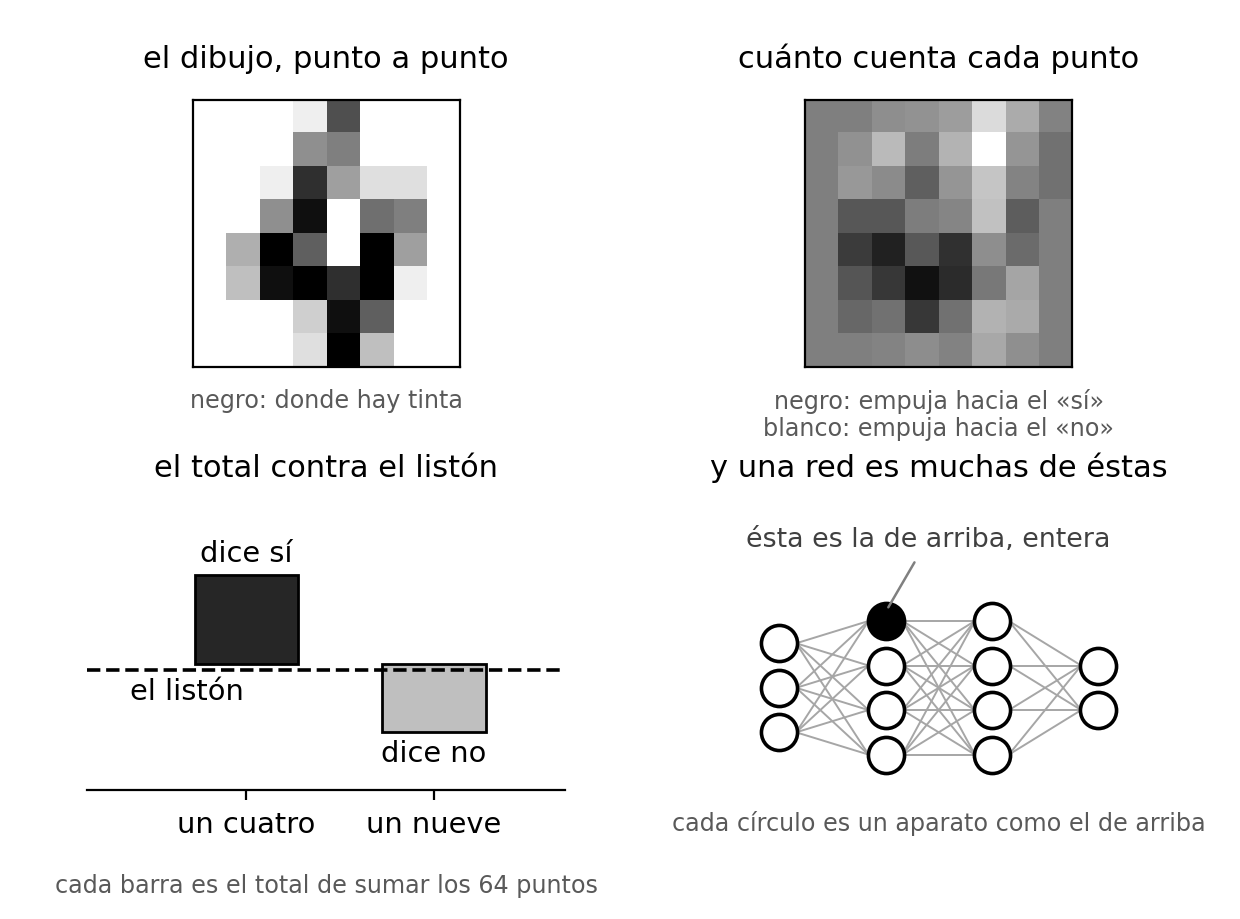
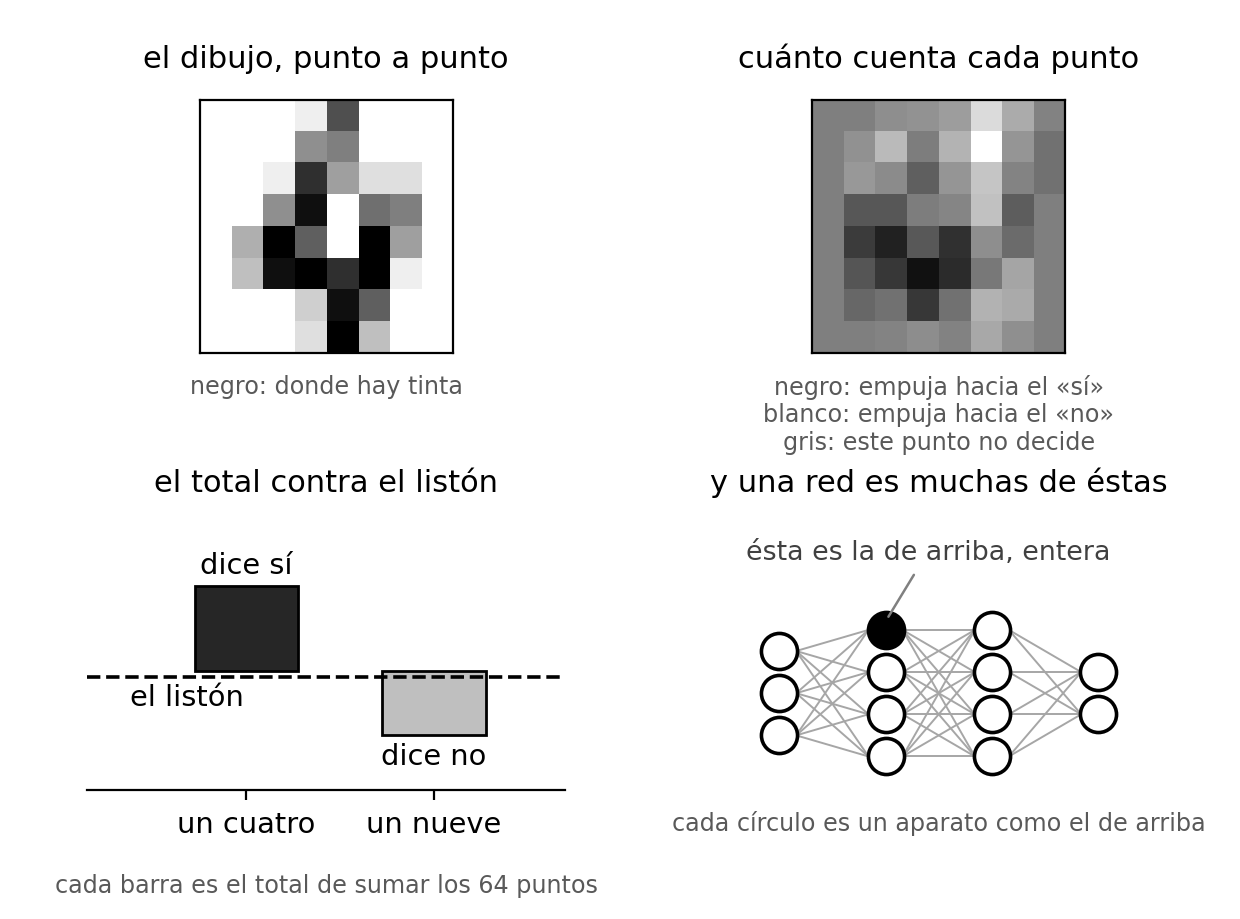
la tanda de las mecánicas: rótulos, un número que nadie podía reproducir, y cuatro figuras
retropropagacion.py — las «siete billonésimas» del capítulo 4 no las avalaba ningún fichero, y
al aislar la comprobación resultó que no las avalaba nada: vivía dentro de --selftest
compartiendo el generador de azar con las dos pruebas anteriores, así que la red que usaba
dependía de cuántas tiradas se hubieran gastado más arriba. Tocar cualquier otra prueba cambiaba
el número impreso. Ahora tiene semilla propia, sale también en la medición —para que el libro
tenga un fichero al lado— y da 2,92e-12 dos veces seguidas. El libro dice ya «tres billonésimas»
y cuenta en dos líneas por qué decía otra cosa.

Y su salida no declaraba máquina ninguna llevando dentro una tabla de tiempos. Ahora la declara.

maquina_entera.py — seguía llamando «rondas» a las 336 y «palabras» a los trozos, que es la
reforma del capítulo 7 aplicada a medias (4.24). Salida regenerada: el diff son esas cuatro
líneas y nada más.

siete_segmentos.py — sus dos bloques salían sin rótulos de columna. Ahora los llevan, medidos.

Cuatro figuras: el gris sin clave en una_neurona y una_capa; apilar dibujaba «el de abajo»
arriba; y la curva del capítulo 10 no enseñaba la caída que el texto afirma, que ahora se ve en
un recuadro ampliado. Las cuatro miradas en la página antes de darlas por buenas.

Numeración de capítulo vieja en cuatro docstrings (crecer, crudo_o_adiestrado, comprimir,
romper_la_maquina).

Los tres _capNN.txt huérfanos, a datos/salidas/_antiguos/: avalaban texto que ya no produce
[…]

diff --git a/codigo/en_que_orden_aprende.py b/codigo/en_que_orden_aprende.py
@@ -55,6 +55,14 @@ MINIMO_PUNTOS_CURVA = 100         # menos que esto y el CSV no es una medición 
 TITULO_FIGURA = "LO MAL QUE LO HACE, SEGÚN AVANZA EL ENTRENAMIENTO"
 ETIQUETA_CRUDA = "la medición cruda, paso a paso"
 ETIQUETA_SUAVE = "la misma, suavizada, para que se vea la forma"
+# El recuadro ampliado. Sin él, el dibujo grande —con el eje anclado en cero, que es lo
+# correcto para que se vea que la línea no llega al suelo— convierte el último 80 % de la
+# curva en una raya horizontal a ojo, y el capítulo pide justo ahí una predicción sobre si
+# la bajada sigue. El recuadro enseña ese tramo con el eje vertical SIN anclar en cero, y
+# lo dice en su propia línea para que nadie lea la ampliación como si fuera el dibujo.
+PASO_RECUADRO = 10_000            # desde qué paso se amplía el tramo final
+ETIQUETA_RECUADRO = "el tramo final de cerca:\ndel paso {} al {}"
+NOTA_RECUADRO = "aquí el cero no está en el dibujo, para que se vea que baja"
 MODELO_GRANDE = 500_000_000_000   # orden de magnitud de un modelo grande de hoy
 
 # ==========================================================
@@ -255,6 +263,29 @@ def leer_curva(ruta=SALIDA_CURVA):
     return datos
 
 
+def tramo_final(curva, desde=PASO_RECUADRO):
+    """Los puntos del tramo que amplía el recuadro: del paso `desde` al último, ni uno más."""
+    tramo = [c for c in curva if c[0] >= desde]
+    assert len(tramo) >= 2, \
+        f"Se esperaban al menos dos puntos desde el paso {desde}; se encontraron {len(tramo)}"
+    assert tramo[-1] == curva[-1], "Se esperaba que el tramo llegara hasta el último punto"
+    return tramo
+
+
+def bajada_del_tramo(curva, desde=PASO_RECUADRO):
+    """Cuánto baja el tramo del recuadro, del primer décimo al último, en tanto por uno.
+
+    Es la cifra que el recuadro enseña dibujada. Se mide sobre el CSV y no sobre el
+    dibujo: si lo que se ve en el recuadro fuera un efecto de estirar el eje y no una
+    bajada de verdad, esto daría cero."""
+    tramo = tramo_final(curva, desde)
+    n = max(1, len(tramo) // 10)
+    primero = sum(v for _, v in tramo[:n]) / n
+    ultimo = sum(v for _, v in tramo[-n:]) / n
+    assert primero > 0, "Se esperaba un primer décimo positivo"
+    return (primero - ultimo) / primero
+
+
 def figura(curva):
     """Lo mal que lo hace, paso a paso.
 
@@ -297,7 +328,44 @@ def figura(curva):
     ax.spines[["top", "right"]].set_visible(False)
     ax.xaxis.set_major_formatter(
         plt.FuncFormatter(lambda x, _: f"{int(x):,}".replace(",", ".")))
-    ax.legend(loc="upper right", frameon=False, fontsize=8.8, handlelength=2.4)
+    # La clave baja a la esquina de abajo a la izquierda porque el recuadro ocupa la de
+    # arriba a la derecha; las dos palabras son las mismas.
+    ax.legend(loc="lower left", frameon=False, fontsize=8.2, handlelength=2.2)
+
+    # ---- el recuadro ampliado del tramo final ----
+    tramo = tramo_final(curva)
+    t2 = [c[0] for c in tramo]
+    v2 = [c[1] for c in tramo]
+    caja = ax.inset_axes([0.545, 0.57, 0.435, 0.26])
+    caja.plot(t2, v2, linewidth=0.6, color="0.72", zorder=1)
+    caja.plot(t2, suavizar(v2), linewidth=1.4, color="#222222", zorder=2)
+    caja.set_xlim(t2[0], t2[-1])
+    # Sin números en ninguno de los dos ejes: el vertical porque el dibujo grande tampoco
+    # los lleva, y el horizontal porque el rótulo del recuadro ya dice de qué paso a qué
+    # paso va, y una cifra suelta ahí abajo se pisaba con la línea del dibujo grande.
+    caja.set_yticks([])
+    caja.set_xticks([])
+    for lado in caja.spines.values():
+        lado.set_linewidth(0.6)
+        lado.set_color("0.45")
+    caja.set_title(ETIQUETA_RECUADRO.format(miles(t2[0]), miles(t2[-1])),
+                   fontsize=7.4, pad=3.0, linespacing=1.25)
+    caja.text(0.5, -0.09, NOTA_RECUADRO, transform=caja.transAxes, ha="center", va="top",
+              fontsize=6.8, color="0.35")
+    # Invariantes del recuadro: los puntos son exactamente los del tramo, el cero NO entra
+    # en su eje vertical (que es para lo que está), y no se sale del dibujo grande.
+    y0, _ = caja.get_ylim()
+    assert y0 > 0, f"Se esperaba que el cero quedara fuera del recuadro; el eje empieza en {y0}"
+    assert tramo == [c for c in curva if c[0] >= PASO_RECUADRO], \
+        "Se esperaba que el recuadro llevara exactamente los puntos desde el paso del corte"
+    assert ax.get_xlim()[0] <= t2[0] and t2[-1] <= ax.get_xlim()[1], \
+        "Se esperaba que el tramo del recuadro cupiera dentro del eje del dibujo grande"
+    bajada = bajada_del_tramo(curva)
+    assert bajada > 0, \
+        ("Se esperaba que el tramo del recuadro bajara; medido sobre el CSV baja "
+         f"{bajada:.4f}. Con una curva plana esto da cero y el recuadro no se dibuja: "
+         "lo que enseña tiene que ser el dato, no el estirón del eje.")
+
     fig.tight_layout()
     fig.savefig(SALIDA_FIGURA, dpi=200)
     plt.close(fig)

diff --git a/codigo/retropropagacion.py b/codigo/retropropagacion.py
@@ -28,6 +28,7 @@ ANCHO = 16
 
 PESOS_MODELO_GRANDE = 100_000_000_000         # 100.000 millones, orden de un modelo de hoy
 TOL_GRADIENTE = 1e-6                          # tolerancia de la comprobación de gradiente
+SEMILLA_GRADIENTE = 20260404                  # semilla propia: ver diferencia_entre_los_dos_metodos()
 
 SALIDA_CSV = "retropropagacion.csv"
 
@@ -191,11 +192,7 @@ def selftest():
 
     # 3. INVARIANTE DEL DOMINIO — la retropropagación tiene que dar EXACTAMENTE el mismo
     #    gradiente que la fuerza bruta. Si no, todo el capítulo es falso.
-    red = Red([4, 5, 1])
-    X = rng.normal(size=(16, 4)); y = (rng.random(16) > 0.5).astype(float)
-    gW_r, _ = red.gradiente_retro(X, y)
-    gW_b = red.gradiente_fuerza_bruta(X, y)
-    dif = max(float(np.abs(a - b).max()) for a, b in zip(gW_r, gW_b))
+    dif = diferencia_entre_los_dos_metodos()
     print(f"[3] invariante        diferencia máxima entre los dos métodos: {cientifica(dif)} (tolerancia {TOL_GRADIENTE:.0e})")
     if dif > TOL_GRADIENTE:
         fallos.append(f"invariante: los dos gradientes difieren en {cientifica(dif)}, por encima de {TOL_GRADIENTE:.0e}")
@@ -207,6 +204,28 @@ def selftest():
         return 1
     print("SELFTEST: las tres pruebas pasan.")
     return 0
+
+
+def diferencia_entre_los_dos_metodos(semilla=SEMILLA_GRADIENTE):
+    """La mayor diferencia entre la culpa calculada por los dos métodos, en una misma red.
+
+    Tiene semilla propia, y por una razón que costó un número impreso. Esta comprobación vivía
+    dentro de `--selftest`, compartiendo el generador de azar con las dos pruebas de antes, así
+    que la red y los datos que se usaban aquí dependían de cuántas tiradas se hubieran gastado
+    más arriba. Cambiar cualquier otra prueba cambiaba este número, y el libro llevaba impreso
+    uno —«siete billonésimas»— que nadie podía volver a obtener. Fallo 4.5 con un agravante:
+    no es que no hubiera fichero detrás, es que no había NADA detrás, ni siquiera el mismo
+    cálculo dos veces.
+
+    Ahora se calcula aquí, con su propia semilla, y sale en la medición además de en el
+    selftest, para que el número del libro tenga un fichero al lado."""
+    rng = np.random.default_rng(semilla)
+    red = Red([4, 5, 1], semilla=semilla)
+    X = rng.normal(size=(16, 4))
+    y = (rng.random(16) > 0.5).astype(float)
+    gW_r, _ = red.gradiente_retro(X, y)
+    gW_b = red.gradiente_fuerza_bruta(X, y)
+    return max(float(np.abs(a - b).max()) for a, b in zip(gW_r, gW_b))
 
 
 def main():
@@ -236,7 +255,14 @@ def main():
     # Lo que sí se sostiene es el recuento de pasadas, que no depende de la máquina.
     print(f"\nEl factor medido crece con cada peso añadido, de {filas[0]['factor']:.0f} a "
           f"{filas[-1]['factor']:.0f} veces.")
-    print("Lo que no depende de la máquina es el recuento de pasadas por los datos que hace")
+    # El número que el capítulo usa para decir «no es una aproximación: es el mismo número».
+    # Va aquí, en la medición, para que tenga fichero detrás (ver la función, y el fallo 4.5).
+    dif = diferencia_entre_los_dos_metodos()
+    print(f"\nmayor diferencia entre la culpa calculada por los dos métodos, en la misma")
+    print(f"red y con los mismos datos: {cientifica(dif)}")
+    print("(es ruido de redondeo del ordenador: los dos métodos dan el mismo número)")
+
+    print("\nLo que no depende de la máquina es el recuento de pasadas por los datos que hace")
     print("falta para dar UN paso de aprendizaje:")
     print(f"  fuerza bruta:        2 pasadas por peso  -> {miles(2*PESOS_MODELO_GRANDE)} pasadas")
     print(f"  retropropagación:    1 adelante y 1 atrás -> 2 pasadas, sea cual sea el número de pesos")

diff --git a/codigo/siete_segmentos.py b/codigo/siete_segmentos.py
@@ -11,7 +11,9 @@ fijas— y la intuición FALLA: ahí una sola raya sí separa los pares de los i
 Ese fallo es el contenido del apartado. En un reloj hay siete piezas siempre en el mismo
 sitio, y con eso casi cualquier división de los diez dígitos se resuelve con una raya.
 Escritos a mano no hay piezas: hay tinta en sitios distintos cada vez, y ahí una sola raya
-se queda en el 90 %. La dificultad no viene de «par»: viene de la escritura a mano.
+se queda en el 90 %. La dificultad no viene de «par», y tampoco viene solo de la escritura
+a mano: el capítulo anterior reconoce dígitos manuscritos sueltos sin problema. Viene de las
+dos cosas juntas: cinco formas distintas, y a mano.
 
 Uso:
     python siete_segmentos.py
@@ -130,6 +132,8 @@ def un_solo_segmento_basta(X):
 
 ANCHO_NOMBRE = 24
 COL = 4
+# La columna de puntos del comité: 24 + 19 = 43, que es donde acaba «puntos que suma».
+ANCHO_PUNTOS = 19
 
 
 def bloque_tabla(X):
@@ -148,19 +152,21 @@ def bloque_tabla(X):
 
 def bloque_comite(X, w, b):
     lineas = ["EL COMITÉ QUE SÍ LO CONSIGUE, CON LOS SIETE SEGMENTOS", ""]
+    lineas.append(f"{'el segmento':<{ANCHO_NOMBRE}}{'puntos que suma':>{ANCHO_PUNTOS}}")
+    lineas.append(f"{'-' * 23:<{ANCHO_NOMBRE}}{'-' * 15:>{ANCHO_PUNTOS}}")
     for nombre, peso in zip(SEGMENTOS, w):
-        lineas.append(f"{nombre:<{ANCHO_NOMBRE}}{peso:>+6.0f}")
-    lineas.append(f"{'':<{ANCHO_NOMBRE}}{'-' * 6:>6}")
+        lineas.append(f"{nombre:<{ANCHO_NOMBRE}}{peso:>+{ANCHO_PUNTOS}.0f}")
+    lineas.append(f"{'':<{ANCHO_NOMBRE}}{'-' * 6:>{ANCHO_PUNTOS}}")
     # El listón puede salir cero, y «-0» no lo escribe nadie.
     liston = -b
     texto = f"{liston:+.0f}" if abs(liston) > 0.5 else "0"
     lineas.append(f"para decir «par», el total tiene que pasar de {texto}")
     lineas.append("")
-    lineas.append(f"{'dígito':<10}{'total':>8}{'dice':>8}")
+    lineas.append(f"{'dígito':<10}{'total':>8}{'dice':>8}      ¿acierta?")
     for d in range(10):
         total = X[d] @ w + b
         lineas.append(f"{d:<10}{total:>+8.0f}{('par' if total > 0 else 'impar'):>8}"
-                      f"   {'correcto' if (total > 0) == (d % 2 == 0) else 'MAL'}")
+                      f"      {'correcto' if (total > 0) == (d % 2 == 0) else 'MAL'}")
     return comprobar_ancho(lineas)
 
 

diff --git a/codigo/maquina_entera.py b/codigo/maquina_entera.py
@@ -5,8 +5,9 @@ Capítulo 7 — la máquina entera: seguir una frase de punta a punta.
 Enseña, sobre un modelo real y pequeño, los cuatro momentos del recorrido:
   1. El texto se parte en trozos.
   2. Cada trozo se convierte en una lista de números.
-  3. Los números atraviesan muchas rondas de mirar y mezclar.
-  4. Sale una lista de probabilidades sobre TODAS las palabras posibles, se elige una,
+  3. Los números atraviesan una ronda de mirar y mezclar detrás de otra, y dentro de
+     cada ronda la mirada se hace varias veces a la vez.
+  4. Sale una lista de probabilidades sobre TODOS los trozos posibles, se elige uno,
      y se vuelve a empezar.
 
 Uso:
@@ -108,7 +109,7 @@ def selftest(tok, modelo):
     # 3. INVARIANTE DEL DOMINIO — la lista de probabilidades cubre TODO el vocabulario y
     #    suma uno. (Los asserts de `siguientes` ya lo comprueban en cada llamada.)
     _, p = siguientes(tok, modelo, FRASE)
-    print(f"[3] invariante        {miles(len(p))} palabras posibles, "
+    print(f"[3] invariante        {miles(len(p))} trozos posibles, "
           f"suman {coma(float(p.sum()), 6)}, mínima {float(p.min()):.2e}")
     if len(p) < 1000:
         fallos.append(f"invariante: vocabulario sospechosamente pequeño ({miles(len(p))})")
@@ -145,9 +146,10 @@ def main():
     total = sum(p.numel() for p in modelo.parameters())
     print(f"modelo: {MODELO}")
     print(f"números por trozo: {cfg.hidden_size}")
-    print(f"rondas de mirar y mezclar: {cfg.num_hidden_layers} capas x "
-          f"{cfg.num_attention_heads} cabezas = {cfg.num_hidden_layers * cfg.num_attention_heads}")
-    print(f"palabras posibles en la salida: {miles(cfg.vocab_size)}")
+    print(f"rondas, una detrás de otra: {cfg.num_hidden_layers}")
+    print(f"miradas a la vez dentro de cada ronda: {cfg.num_attention_heads}")
+    print(f"miradas en total: {cfg.num_hidden_layers * cfg.num_attention_heads}")
+    print(f"trozos posibles en la salida: {miles(cfg.vocab_size)}")
     print(f"números ajustables en total: {miles(total)}")
     print()
 

diff --git a/codigo/figura_apilar.py b/codigo/figura_apilar.py
@@ -42,7 +42,9 @@ ETIQUETA_SALIDA = "la luz"
 # derecha, negro y blanco quieren decir lo de siempre en este libro.
 CLAVE_MONTAJE = ("en el dibujo de la izquierda: línea continua, suma;\n"
                  "línea de puntos, resta; y cuanto más gruesa, más cuenta")
-CLAVE_COLOR = "negro: la luz se enciende  ·  blanco: la luz no se enciende"
+CLAVE_COLOR = ("en el de la derecha: negro, la luz se enciende  ·  "
+               "blanco, la luz no se enciende\n"
+               "y la raya de trazos es la que traza la neurona final")
 
 # ==========================================================
 
@@ -95,7 +97,10 @@ def hay_raya_en(puntos, encienden):
 
 def panel_montaje(ax, red, reglas):
     columnas = {"entrada": 0.0, "medio": 1.0, "salida": 2.0}
-    filas = {"entrada": [0.75, -0.75], "medio": [0.75, -0.75], "salida": [0.0]}
+    # «el de abajo» va dibujado abajo: son dos interruptores de una pared y arriba y
+    # abajo es literalmente dónde están. El orden de ETIQUETAS_ENTRADA es el de
+    # TABLA_XOR, y los pesos siguen a las etiquetas.
+    filas = {"entrada": [-0.75, 0.75], "medio": [0.75, -0.75], "salida": [0.0]}
     maximo = max(np.abs(red.W[0]).max(), np.abs(red.W[1]).max())
 
     def dibuja_flechas(W, col_a, col_b):
@@ -184,8 +189,10 @@ def dibujar():
     fig, (izq, der) = plt.subplots(1, 2, figsize=ANCHO_ALTO)
     panel_montaje(izq, red, reglas)
     panel_cuadrado_nuevo(der, red, medio)
-    fig.tight_layout(rect=(0, 0.17, 1, 1))
-    fig.text(0.5, 0.125, CLAVE_MONTAJE, ha="center", va="top",
+    # La clave del color ocupa ahora dos renglones, así que el pie entero necesita más
+    # sitio y la del montaje sube para no pisarla.
+    fig.tight_layout(rect=(0, 0.23, 1, 1))
+    fig.text(0.5, 0.185, CLAVE_MONTAJE, ha="center", va="top",
              fontsize=8.2, color="0.35")
     fig.text(0.5, 0.015, CLAVE_COLOR, ha="center", va="bottom",
              fontsize=8.5, color="0.35")

diff --git a/codigo/figura_una_neurona.py b/codigo/figura_una_neurona.py
@@ -55,7 +55,7 @@ TITULOS = [
 BAJADA_PIE = [0.022, 0.022, 0.090, 0.022]
 PIES = [
     "negro: donde hay tinta",
-    "negro: empuja hacia el «sí»\nblanco: empuja hacia el «no»",
+    "negro: empuja hacia el «sí»\nblanco: empuja hacia el «no»\ngris: este punto no decide",
     "cada barra es el total de sumar los 64 puntos",
     "cada círculo es un aparato como el de arriba",
 ]
@@ -184,7 +184,7 @@ def dibujar():
     puntos, liston = puntos_y_liston(m, (i_si, i_no))
 
     fig = plt.figure(figsize=ANCHO_ALTO)
-    gs = GridSpec(2, 2, height_ratios=[1, 1.05], hspace=0.52, wspace=0.28, figure=fig)
+    gs = GridSpec(2, 2, height_ratios=[1, 1.05], hspace=0.66, wspace=0.28, figure=fig)
     fig.subplots_adjust(left=0.07, right=0.95, top=0.89, bottom=0.14)
     ejes = [fig.add_subplot(gs[i // 2, i % 2]) for i in range(4)]
     panel_dibujo(ejes[0], m["X"][i_si])

diff --git a/codigo/memoria_recurrente.py b/codigo/memoria_recurrente.py
@@ -63,8 +63,10 @@ from formato import coma, miles
 
 
 def dispositivo():
-    """Usa la GPU del Mac (Metal) si está disponible; si no, el procesador. Las cifras de
-    acierto no cambian; los TIEMPOS sí, y por eso el libro solo cita tiempos medidos aquí."""
+    """Usa la GPU del Mac (Metal) si está disponible; si no, el procesador. Los TIEMPOS cambian
+    mucho, y por eso el libro solo cita tiempos medidos aquí. Los aciertos no: con la misma
+    semilla salen iguales en el Mac y en un contenedor Linux, comprobado. Lo único que baila es
+    la última cifra de la suma del invariante, que es ruido de coma flotante."""
     if hasattr(torch.backends, "mps") and torch.backends.mps.is_available():
         return torch.device("mps")
     return torch.device("cpu")

diff --git a/codigo/figura_una_capa.py b/codigo/figura_una_capa.py
@@ -30,7 +30,8 @@ PARECIDO_MAXIMO_ADMISIBLE = 0.90   # por encima de esto, dos neuronas son la mis
 # tiene que poder entenderse sin el párrafo que la presenta.
 TITULO = "LO QUE MIRA CADA UNO DE LOS OCHO COMITÉS DE EN MEDIO"
 SUBTITULO = "cada cuadro son los 64 puntos del dígito, como los ve ese comité"
-CLAVE = "negro: este punto empuja hacia «es par»  ·  blanco: hacia «es impar»"
+CLAVE = ("negro: este punto empuja hacia «es par»  ·  blanco: hacia «es impar»"
+         "  ·  gris: no decide")
 
 # ==========================================================
 

diff --git a/codigo/crudo_o_adiestrado.py b/codigo/crudo_o_adiestrado.py
@@ -1,6 +1,6 @@
 #!/usr/bin/env python3
 """
-Capítulo 11 — lo que no viene del entrenamiento.
+Capítulo 12 — lo que no viene del entrenamiento.
 
 Compara el MISMO modelo antes y después de la capa de adiestramiento que lo convierte en algo
 que conversa. Mismo tamaño, mismo material de partida: lo único que cambia es ese añadido.

diff --git a/codigo/comprimir.py b/codigo/comprimir.py
@@ -1,6 +1,6 @@
 #!/usr/bin/env python3
 """
-Capítulo 12 — lo que cuesta que quepa en la mesa.
+Capítulo 13 — lo que cuesta que quepa en la mesa.
 
 El modelo de treinta mil millones que cabe en un portátil NO es el de treinta mil millones:
 es una copia comprimida. Este guion separa las dos cosas que la gente mezcla:

diff --git a/codigo/crecer.py b/codigo/crecer.py
@@ -1,6 +1,6 @@
 #!/usr/bin/env python3
 """
-Capítulo 10 — qué aparece al crecer.
+Capítulo 11 — qué aparece al crecer.
 
 Pasa la misma batería de tareas a tres modelos de la MISMA familia y distinto tamaño, para
 ver qué sabe hacer cada uno. Todos son modelos en crudo, sin adiestramiento de instrucciones:

diff --git a/codigo/romper_la_maquina.py b/codigo/romper_la_maquina.py
@@ -1,6 +1,6 @@
 #!/usr/bin/env python3
 """
-Capítulo 12 — dónde se rompe, y por qué se rompe ahí.
+Capítulo 13 — dónde se rompe, y por qué se rompe ahí.
 
 Cuatro mediciones sobre el MISMO modelo adiestrado, con los mandos a la vista:
 
